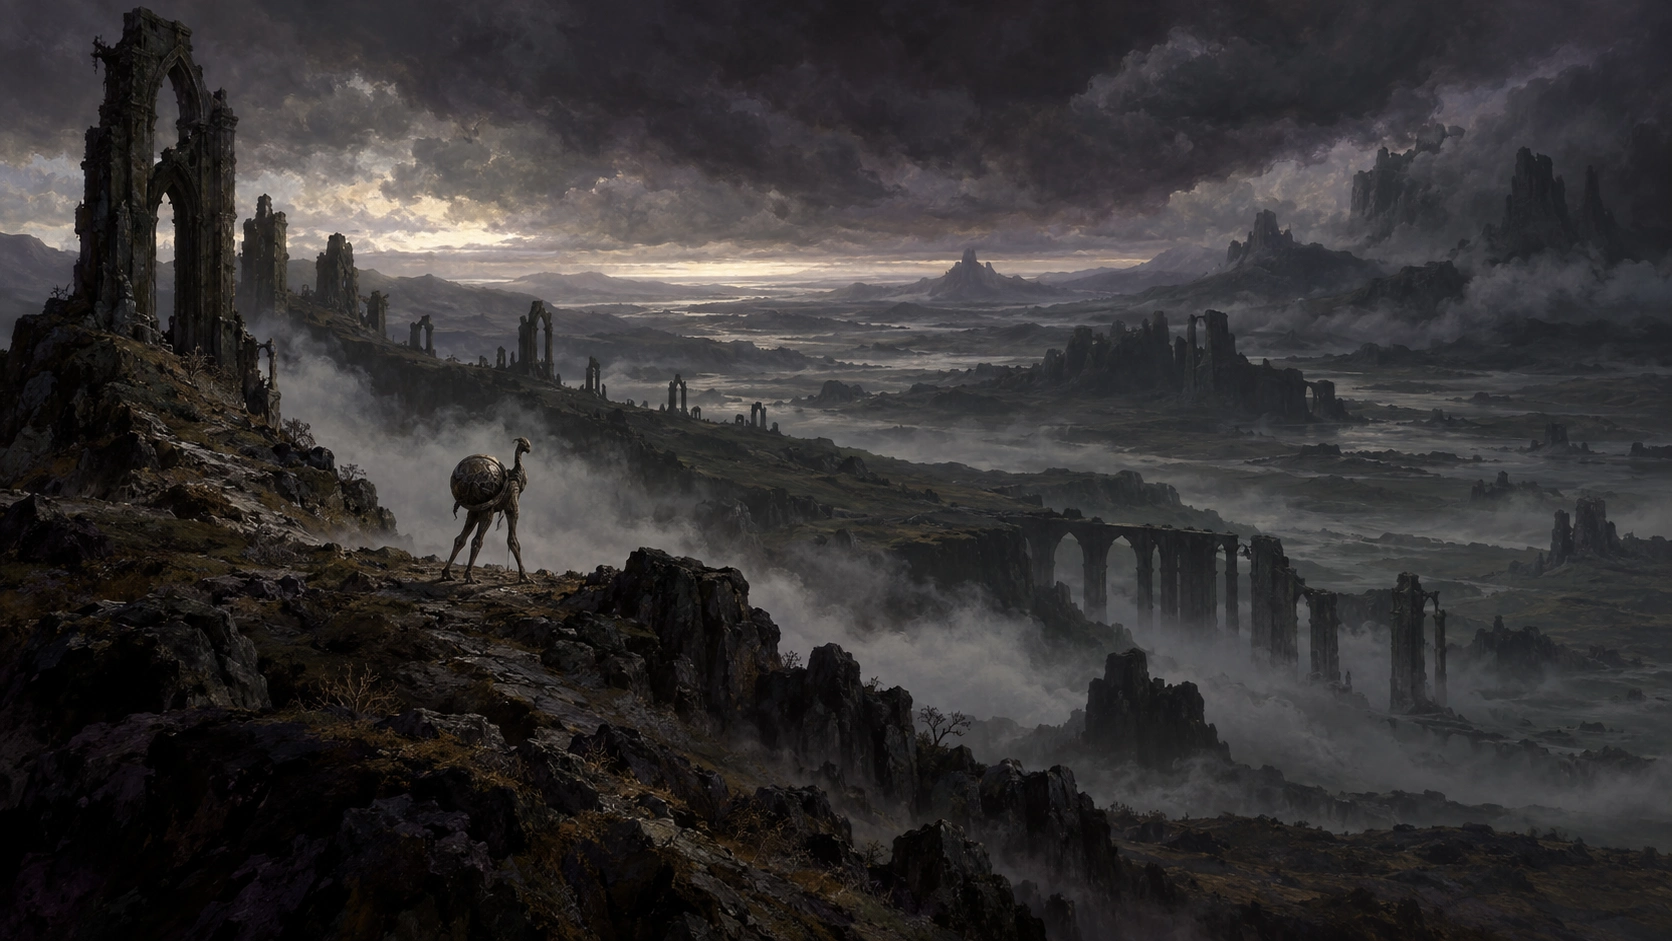
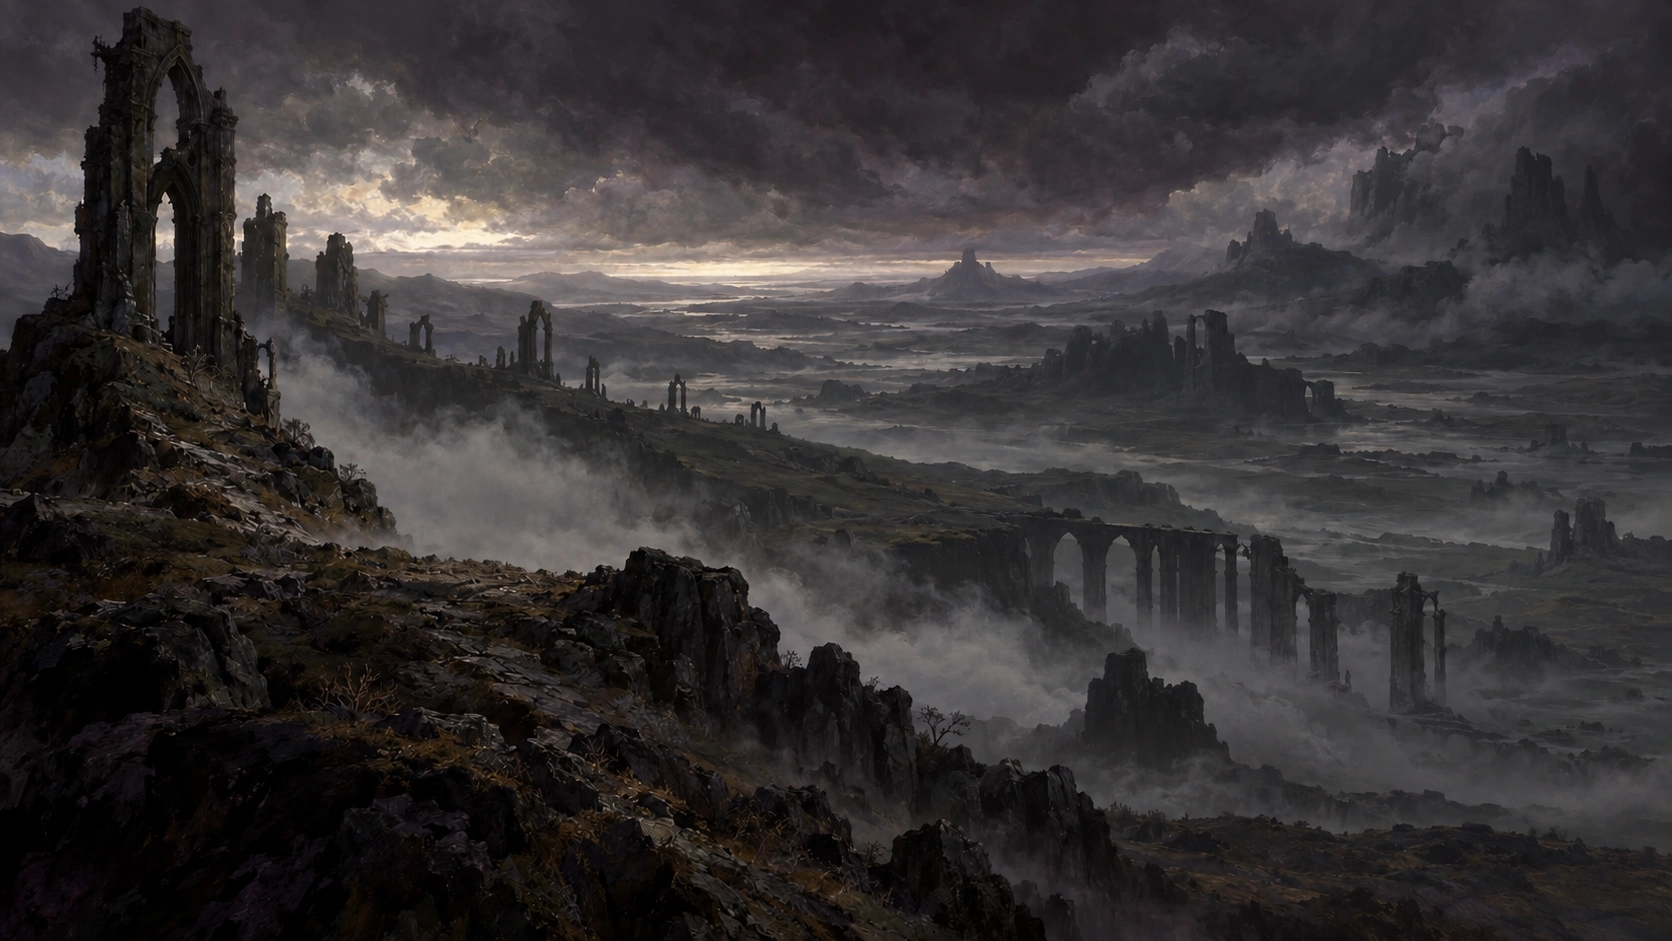
Add files via upload

diff --git a/index.html b/index.html
@@ -6,7 +6,7 @@
 <meta name="description" content="Арквейн — иллюстрированная книга мира: земли, народы, фракции, герои и предания.">
 <title>ARCWANE — Artbook 2026</title>
 <link rel="icon" href="world-mark-v5.png" type="image/png"><link rel="stylesheet" href="style.css?v=arcwane-limbrein-title-20261003">
-<script src="book-data.js?v=arcwane-limbrein-contents-v11-20261004" defer></script><script src="page-fold.js?v=arcwane-v71" defer></script><script src="reader.js?v=arcwane-v71" defer></script>
+<script src="book-data.js?v=arcwane-limbrein-ending-v12-20261004" defer></script><script src="page-fold.js?v=arcwane-v71" defer></script><script src="reader.js?v=arcwane-v71" defer></script>
 <style>.book:not(.closed) .chapter-page[data-index="37"] .page-copy{top:78%!important;bottom:auto!important;padding:0 20px!important;background:none!important}</style>
 <style>.book:not(.closed) .chapter-page[data-index="37"]:before{background:linear-gradient(0deg,#03090bee 0%,#03090b60 18%,#03090b00 30%)!important}
 @media(max-width:700px) and (orientation:portrait){.book:not(.closed) .chapter-page[data-index="37"] .page-art{height:min(100%,170vw)!important;object-position:50% 0%!important}}

diff --git a/book-data.js b/book-data.js
@@ -1250,8 +1250,8 @@ window.ARKVEIN_BOOK = {
       "id": "limbrein-lastpath",
       "title": "Пока дорога не исчезла",
       "section": "За пределами хранилищ",
-      "image": "limbrein-lastpath-final.webp?v=arcwane-selected-v2-20261003",
-      "alt": "Пока дорога не исчезла",
+      "image": "limbrein-lastpath-final.webp?v=arcwane-limbrein-ending-v12-20261004",
+      "alt": "Пустая дорога среди готических руин Лимбрейна; разрушенные мосты уходят в туман под тяжёлым небом.",
       "caption": "Лимбрейн не победил конец: он платит памятью за отсрочку. Пока Мартенсит удерживает Последнюю Колыбель, новые шествия выходят в туман, исполняя долг, переживший тех, кто его принял.",
       "type": "story",
       "chapter": "limbrein",
